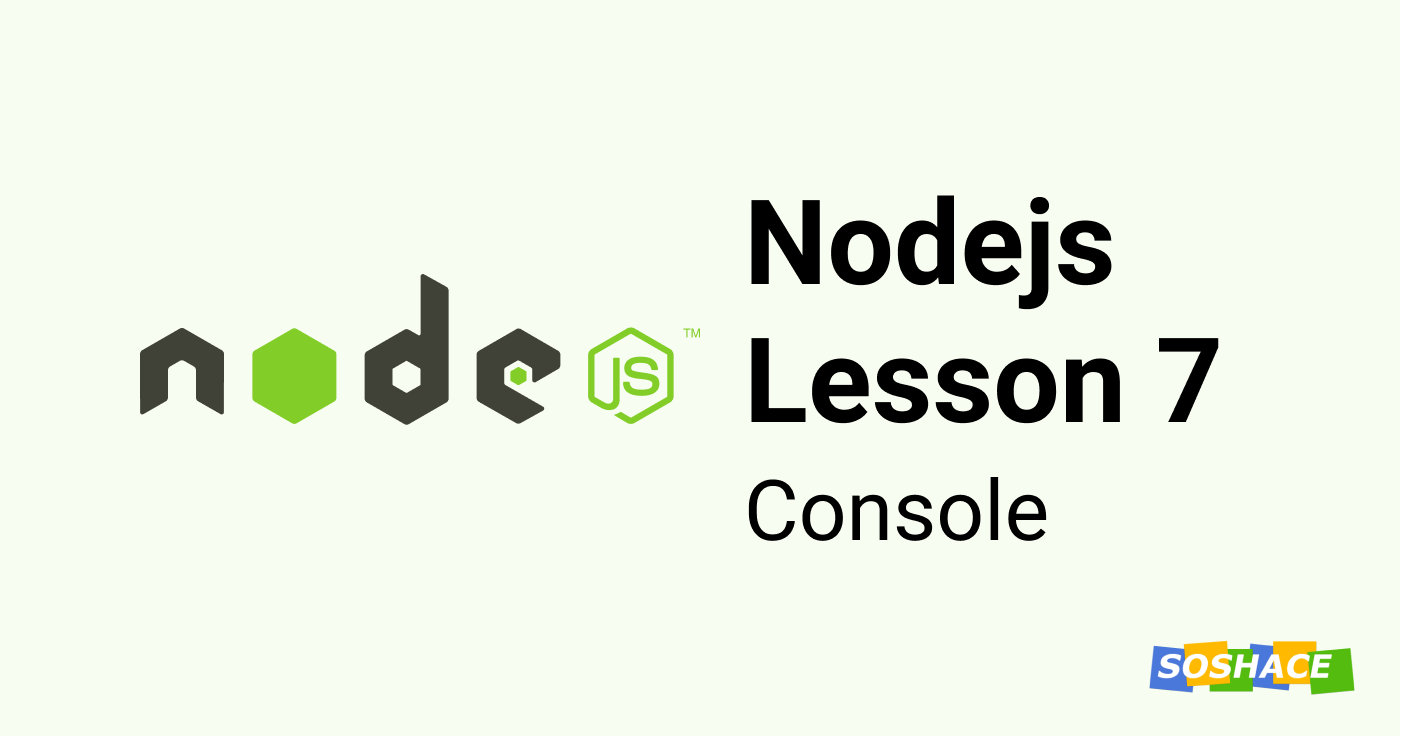
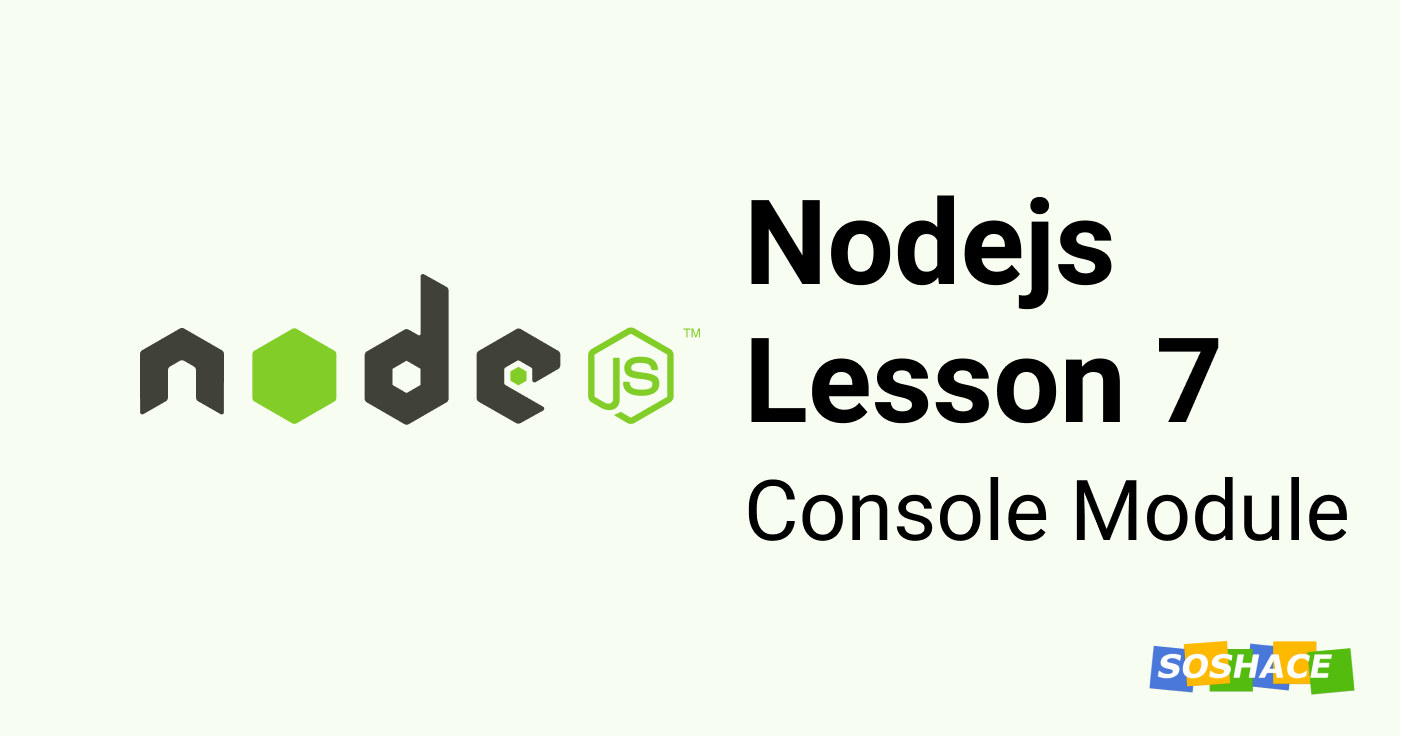
updated title

Changed region(s): [[0.7479, 0.6562, 0.966, 0.75]]

diff --git a/blogs/node-lesson7/index.md b/blogs/node-lesson7/index.md
@@ -1,4 +1,4 @@
-# Nodejs Lesson 7: Console
+# Nodejs Lesson 7: Console Module
 
 ![cover](./nodejs-l7.png)
 
